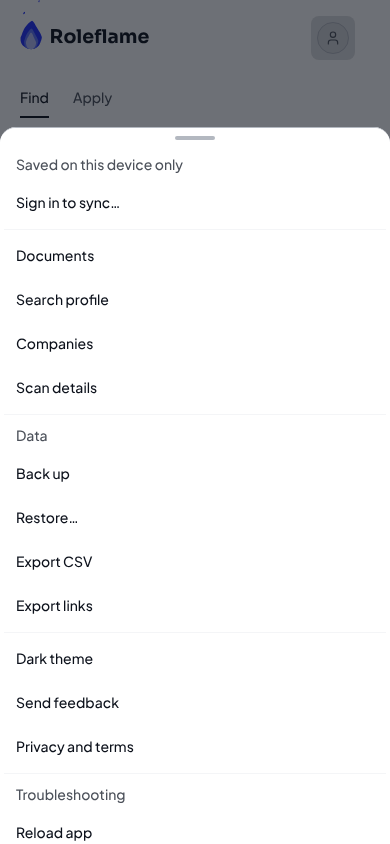
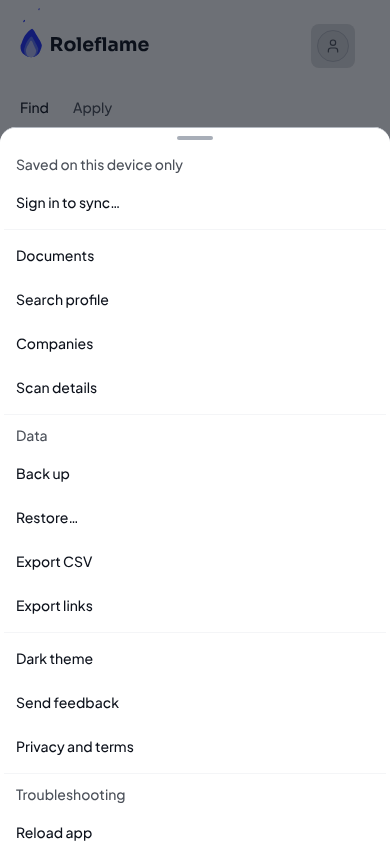
Account sheet review: a real 36x4 handle, side safe-area insets, Recently removed back in Data, tidy
Claude-Session: https://claude.ai/code/session_01YAE7bTvBTrdrsAvJfAZECM

Changed region(s): [[0.0308, 0.0, 0.4, 0.154], [0.1846, 0.0924, 0.2769, 0.154], [0.8308, 0.0308, 0.8615, 0.0616]]

diff --git a/src/account/AccountMenu.tsx b/src/account/AccountMenu.tsx
@@ -34,7 +34,6 @@ import { useTrash } from '../trash';
 import './sheet.css';
 import { setReturnFocus } from './returnFocus';
 
-
 const FEEDBACK_URL = 'https://github.com/hirobius/job-hunt/issues/new';
 
 export default function AccountMenu() {
@@ -137,11 +136,6 @@ export default function AccountMenu() {
           <Menu.Item onSelect={opensDialog(() => setProfile(true))}>Search profile</Menu.Item>
           <Menu.Item onSelect={opensDialog(() => setCompanies(true))}>Companies</Menu.Item>
           <Menu.Item onSelect={opensDialog(() => setDetails(true))}>Scan details</Menu.Item>
-          {removed > 0 && (
-            <Menu.Item onSelect={opensDialog(openRecentlyRemoved)}>
-              {`Recently removed (${removed})`}
-            </Menu.Item>
-          )}
           <Menu.Separator />
           {/* Data (account menu PR): everything that copies your data in or out, together. */}
           <Menu.Label>Data</Menu.Label>
@@ -153,6 +147,12 @@ export default function AccountMenu() {
           <Menu.Item onSelect={() => openExportLinks('all')} disabled={!data.canExport}>
             Export links
           </Menu.Item>
+          {/* Removed jobs come back from here: data, so it sits with the Data group. */}
+          {removed > 0 && (
+            <Menu.Item onSelect={opensDialog(openRecentlyRemoved)}>
+              {`Recently removed (${removed})`}
+            </Menu.Item>
+          )}
           <Menu.Separator />
           <Menu.Item onSelect={toggle}>{mode === 'dark' ? 'Light' : 'Dark'} theme</Menu.Item>
           <Menu.Item onSelect={() => window.open(FEEDBACK_URL, '_blank', 'noopener')}>

diff --git a/src/theme/late.css b/src/theme/late.css
@@ -33,8 +33,9 @@
     max-height: 85dvh;
     overflow-y: auto;
     overscroll-behavior: contain;
-    padding: var(--primitive-space-2) var(--primitive-space-2)
-      calc(var(--primitive-space-4) + env(safe-area-inset-bottom));
+    padding: var(--primitive-space-2) calc(var(--primitive-space-2) + env(safe-area-inset-right))
+      calc(var(--primitive-space-4) + env(safe-area-inset-bottom))
+      calc(var(--primitive-space-2) + env(safe-area-inset-left));
     border-radius: var(--semantic-radius-scale-lg) var(--semantic-radius-scale-lg) 0 0;
     border-inline: 0;
     border-bottom: 0;
@@ -44,7 +45,15 @@
       color-mix(in srgb, var(--semantic-color-surface-scrim) 60%, transparent);
   }
 
-  .rjb-account-menu > .rjb-sheet-handle {
+  /* The grab handle: 36x4, a pill in the strong border colour, centred on top. Its own box here,
+   * not base.css's (that one is the All jobs sheet's, inside an HDS Dialog header). */
+  [data-hds] .rjb-account-menu > .rjb-sheet-handle {
+    display: block;
+    flex: none;
+    width: calc(var(--primitive-space-8) + var(--primitive-space-1));
+    height: var(--primitive-space-1);
     margin: 0 auto var(--primitive-space-2);
+    border-radius: var(--semantic-radius-scale-pill);
+    background: var(--semantic-color-border-strong);
   }
 }

diff --git a/e2e/account-menu.spec.ts b/e2e/account-menu.spec.ts
@@ -25,7 +25,12 @@ test('on a phone it is a bottom sheet with a handle and its own scroll', async (
     })
     .toEqual([0, 390, 700]);
   expect((await menu.boundingBox())!.height).toBeLessThanOrEqual(700 * 0.85 + 1);
-  await expect(menu.locator('.rjb-sheet-handle')).toBeVisible();
+  const handle = menu.locator('.rjb-sheet-handle');
+  await expect(handle).toBeVisible();
+  // A real 36x4 pill, centred (not a 0x0 span).
+  const h = (await handle.boundingBox())!;
+  expect([Math.round(h.width), Math.round(h.height)]).toEqual([36, 4]);
+  expect(Math.abs(h.x + h.width / 2 - 195)).toBeLessThanOrEqual(1);
   // Every item is reachable: the sheet scrolls to its last one.
   const last = menu.getByRole('menuitem', { name: 'Reset local data…' });
   await last.scrollIntoViewIfNeeded();

diff --git a/CLAUDE.md b/CLAUDE.md
@@ -206,7 +206,7 @@ flame.svg / flameEngine. Pinned in `shell.test.tsx`, `SignInDialog.test.tsx`, `e
   itself: politely (errors assertively), "Title. Description". Shell behaviour is pinned at the route seam in `src/shell.test.tsx`, incl. the Account menu order
   (signed out: device-only line, Sign in | data | display; signed in: "Signed in as <email>" + sync
   line as non-item labels | data | display | Sign out, Delete my data last in the danger colour;
-  data = Documents, Search profile, Companies, Scan details | "Data": Back up, Restore…, Export CSV, Export links). Pillars and tracks are gone from the UI (ADR 0009).
+  data = Documents, Search profile, Companies, Scan details | "Data": Back up, Restore…, Export CSV, Export links, Recently removed (N) when the trash has some). Pillars and tracks are gone from the UI (ADR 0009).
 - **Guardrails (redesign-mobile, `docs/guardrails.md`):** HDS freshness (≤ 1 minor behind `hds-version.json`) runs in `verify`; layout rules + screenshot baselines run in `npm run verify:ui` (local; update baselines with `npm run test:visual -- --update-snapshots`). **Baselines are drawn only in the pinned Playwright image** (`e2e/visual-env.json`: image digest + its Chromium, #485): `test:visual` runs the spec there through Docker (`scripts/visual-docker.mjs`); elsewhere the spec skips and an update fails (`src/visualEnv.test.ts`). Bump the digest with `@playwright/test` and re-take every baseline in the same PR.
 - **Screenshot gallery (#115 Phase 0):** `npm run gallery` (or `-- --url=<deploy> --out=gallery/x`)
   shoots every route/sub-tab/dialog at 1440+390, light+dark, with sample data → `gallery/`
